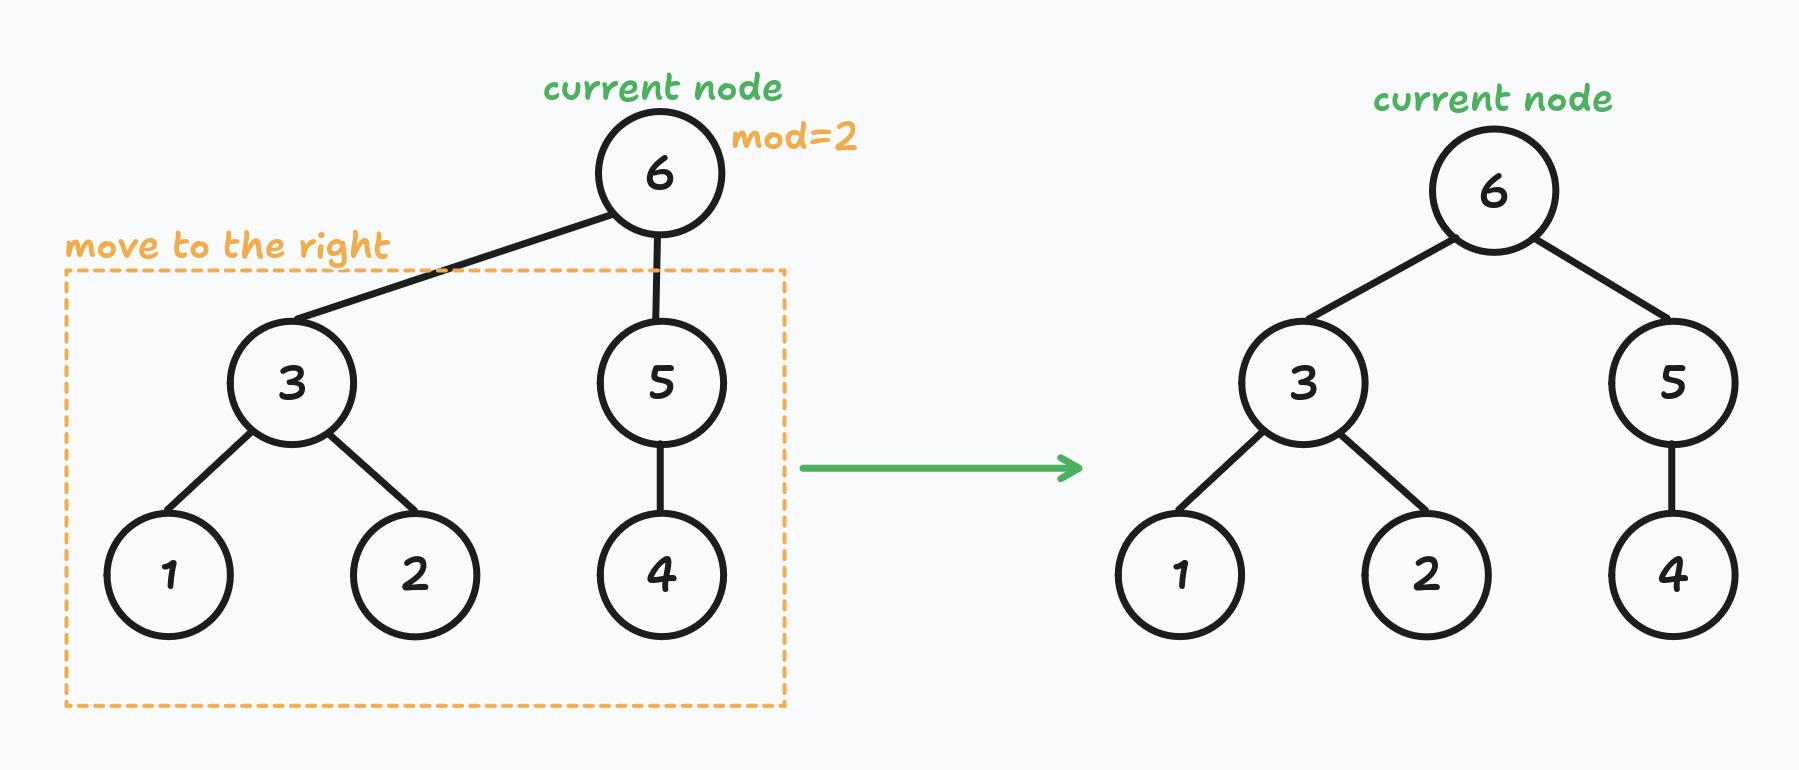
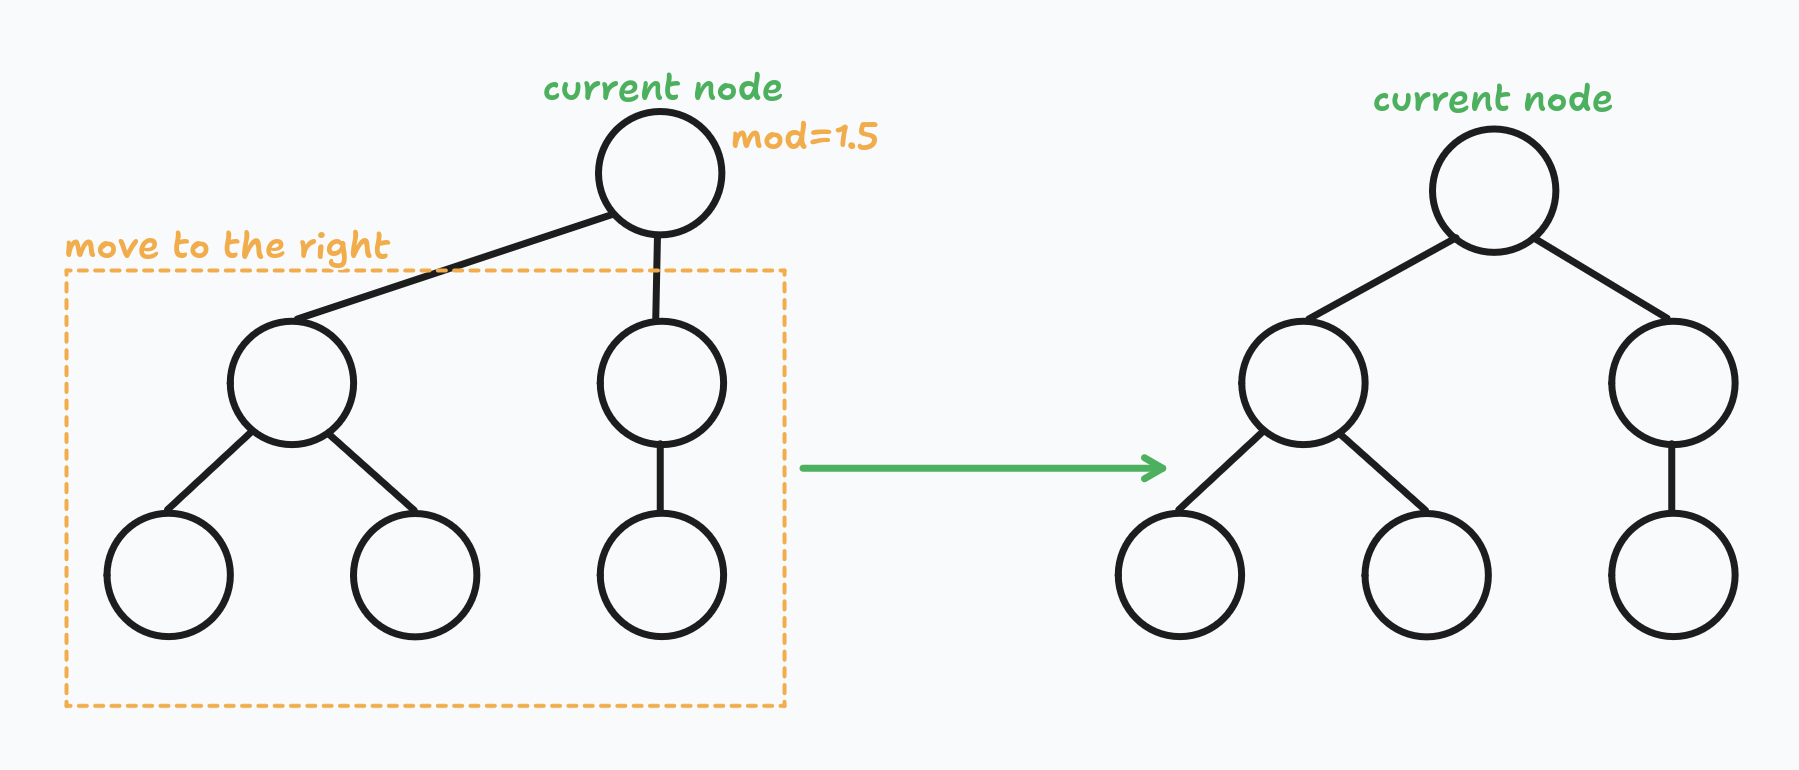
feat(Drawing Genealogy Graphs. Part 1): finish first walk: shift;

diff --git a/content/posts/draw-tree-using-reingold-tilford-algorithm/index.md b/content/posts/draw-tree-using-reingold-tilford-algorithm/index.md
@@ -71,7 +71,7 @@ Different implementations set similar (maybe a bit different) _Aesthetic Rules_ 
 1. Nodes at the same level of the tree should be on the same horizontal line.
 2. A parent should be centered over its children.
 3. A tree and its mirror image should produce drawings that are reflections of one another;
-   moreover, a subtree should be drawn the same way regardless of where it occurs in the tree.
+   moreover, a sub-tree should be drawn the same way regardless of where it occurs in the tree.
 
 **Note 1.** Someone also require the distance between children of the node should be the same, but it's not the case for me.
 I do not care about this distance :upside_down_face:.
@@ -106,7 +106,7 @@ Let me clarify a few things.
 - <mark>Siblings</mark> are all nodes that share the same parent node.
   I do not often see someone use this term, so I decided to clarify it.
 - <mark>Sub-tree</mark> of the node is all descendants including the node itself.
-  For example, subtree for node 10 is a tree of nodes 10, 7, 8, 9. 
+  For example, sub-tree for node 10 is a tree of nodes 10, 7, 8, 9. 
 - The Reingold-Tilford Algorithm uses a [depth-first tree traversal](https://en.wikipedia.org/wiki/Depth-first_search).
   On the picture above, you can see in what order coordinates will be assigned.
   It is important to have determined siblings order.
@@ -122,14 +122,14 @@ Let me explain what these parameters mean.
 
 - `preX` or <mark>preliminary x</mark>.
   The initial node `x` coordinate we gave it based on its position among siblings.
-  This `preX` value does not take into account siblings sub-trees or children subtrees.
+  This `preX` value does not take into account siblings sub-trees or children sub-trees.
 - `mod` or <mark>modifier</mark>.
   Denotes how much we need to shift node descendants (**but not the node itself**) to the right to make descendants centered with respect to the node.
 
 ![](./mod.png)
 
 - `shift` or <mark>shift</mark> :rofl:.
-  Denotes how much we need to shift the node **and** its descendants to the right to avoid overlapping with the previous sibling subtree.
+  Denotes how much we need to shift the node **and** its descendants to the right to avoid overlapping with the previous sibling sub-tree.
 
 ![](./shift.png)
 
@@ -140,10 +140,7 @@ I also follow this approach because I got used to this parameter and it's easier
 ### Preliminary x
 
 As I wrote above, `preX` is the initial node `x` coordinate we gave it based on its position among siblings.
-The distance between nodes must be at least NODE_WIDTH + NODES_GAP. Let's call it a _sibling distance_.
-For the example simplicity, I assume that the _sibling distance_ is equal to 1:
-
-![](./sinling_distance.svg)
+The distance between nodes must be at least NODE_WIDTH + NODES_GAP. Let's call it a <mark>sibling distance</mark>.
 
 For every node we set the `preX` to one of the following values:
 
@@ -165,7 +162,7 @@ Camp down! :innocent:
 
 Yes, `shift`. Do you remember the `shift` definition?
 
-> _Denotes how much we need to shift the **node and its descendants** to the right to avoid overlapping with the previous sibling subtree._
+> _Denotes how much we need to shift the **node and its descendants** to the right to avoid overlapping with the previous sibling sub-tree._
 
 The `shift` value also affects the node `x` value.
 We need to take it into an account when calculating `preX`.
@@ -192,12 +189,56 @@ const midpoint = (leftmostX + rightmostX) / 2;
 const mod = node.preX - midpoint;
 ```
 
+Here is an example, how it will look on a real tree:
+
+![](./mod-example.png)
+
+Do not think about child shift value
+
 Good. Now all children are centered with respect to their parent node.
 Obviously, that's not enough.
-All previous manipulations do not prevent overlaps. We do not want subtrees to overlap.
+All previous manipulations do not prevent overlaps. We do not want sub-trees to overlap.
 We are going to fix it using the `shift` parameter.
 
 ### Shift
+
+The `mod` parameter is responsible for parent-children alignment.
+Whereas the `shift` parameter is responsible for eliminating overlaps.
+
+If current node is the leftmost node among its siblings, then its `shift` value is 0.
+It's pointless to search for overlaps because there is no sub-trees to the left (in the scope of sibling sub-trees, of course).
+
+If the current node is not the leftmost node among its siblings, then there is a possibility that its sub-tree overlaps with one of the sub-trees of siblings to the left.
+We need to check for overlaps and increase the `shift` value if needed.
+
+For every sibling's sub-tree to the left, we do the following: we compare `x` coordinates of the rightmost node of the left sub-tree and leftmost node of the right sub-tree (current node sub-tree) on each level.
+If we detect that nodes overlap, we calculate how much we need to shift the right sub-tree. We do that on each level and, as the result, we take the maximum `shift` value. See the example:
+
+![](./shift-example.png)
+
+I highlighted rightmost nodes of the left sub-tree with purple and leftmost nodes of the current sub-tree with orange.
+All purple nodes are called the <mark>right contour</mark> and all orange nodes are called <mark>left contour</mark>.
+
+We do shift calculation for each not-leftmost node in the tree.
+
+**Important moment.** Pay attention, that we compare the leftmost and rightmost nodes *on each level*.
+It does not mean that it's enough, for example, for left contour to _just_ take leftmost child of the leftmost sibling and so on.
+Look at the picture below:
+
+![](./contour.png)
+
+Path to some leftmost/rightmost nodes can lead through intermediate nodes. You need to take it into account when implementing the algorithm.
+Unfortunately, I forgot about that and my implementation is incomplete.
+I remembered about it only while writing this post :sweat_smile:. And that's another reason to write :nerd_face:.
+
+### Example
+
+For the example simplicity, I assume that the _sibling distance_ is equal to `1`:
+
+![](./sinling_distance.svg)
+
+Do you remember the big tree from the beginning of the post?
+
 
 ## Second walk
 
